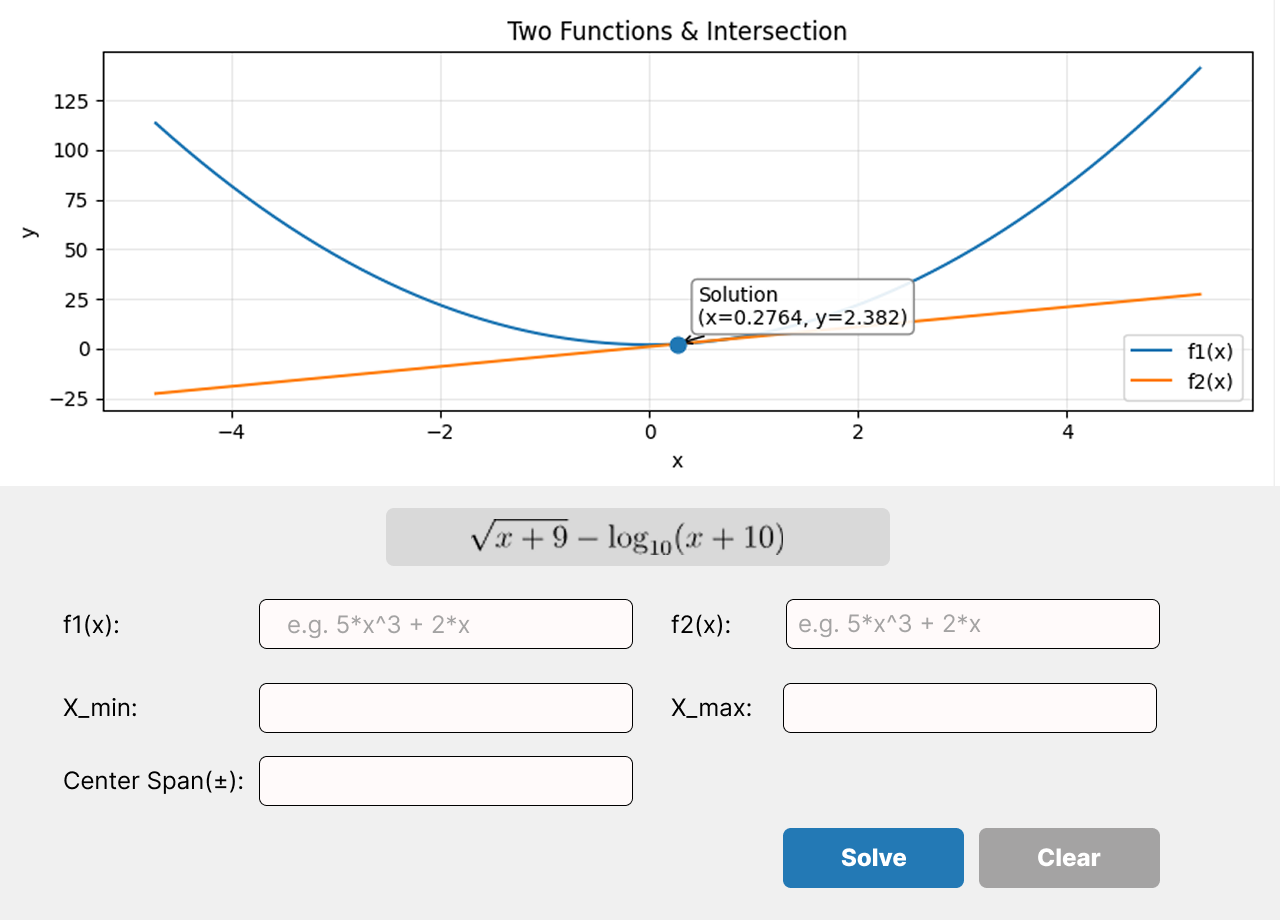
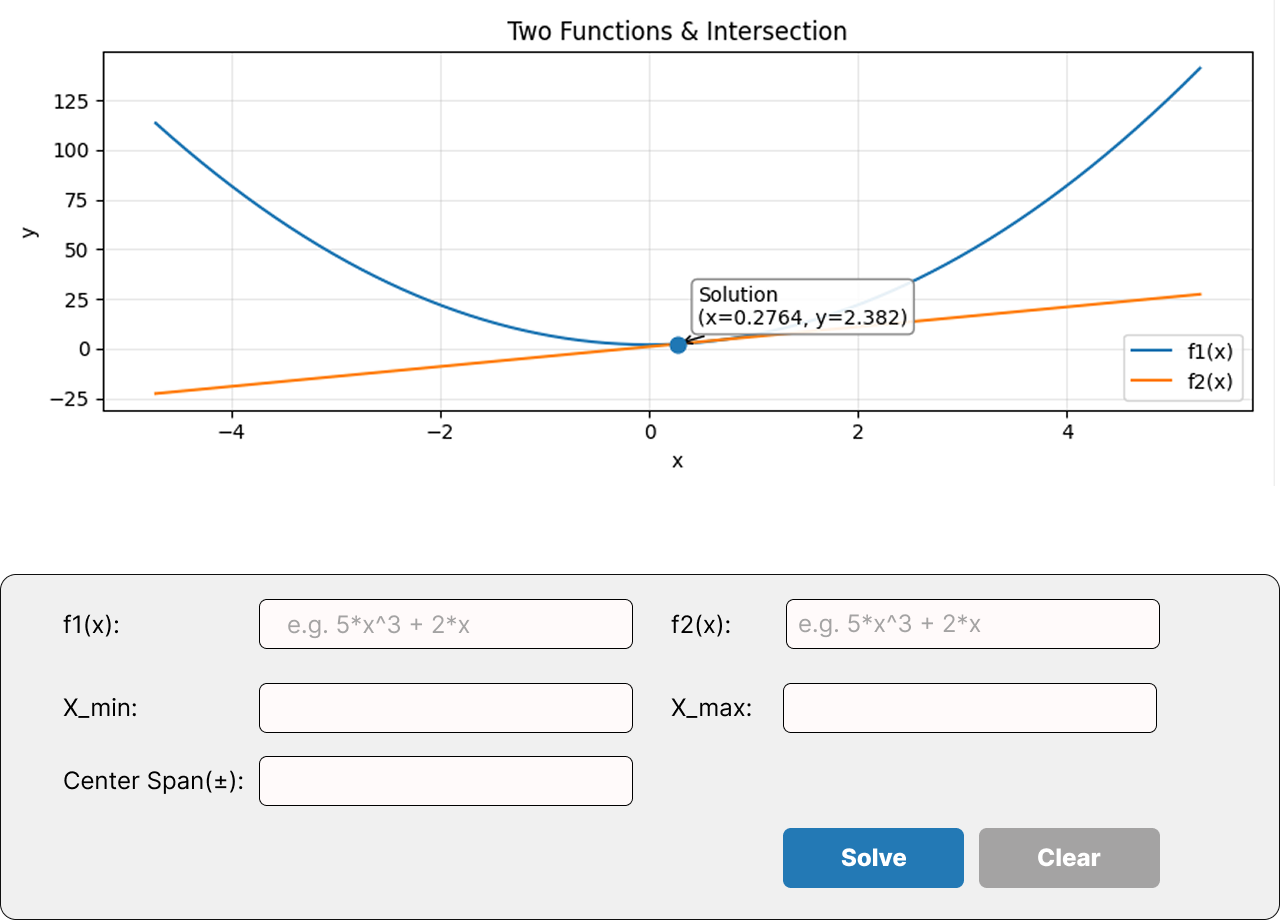
refactor input widget layout and update ReadMe with application features and snapshots

Changed region(s): [[0.2812, 0.5478, 0.7188, 0.6391]]

diff --git a/src/widgets/input_widget.py b/src/widgets/input_widget.py
@@ -57,6 +57,7 @@ class InputPanelWidget(QWidget):
 
     def init_layout(self):
         grid = QGridLayout()
+        grid.setSpacing(10)
         grid.addWidget(self.f1_label, 0, 0)
         grid.addWidget(self.f1_input, 0, 1)
         grid.addWidget(self.f2_label, 0, 2)
@@ -81,9 +82,9 @@ class InputPanelWidget(QWidget):
             InputPanelWidget {
                 background-color: #F3F3F3;
                 color: #ffffff;
-                max-height: 150px;
+                max-height: 180px;
                 border-top: 1px solid #cccccc;
-                border-radius: 16px;
+                border-radius: 15px;
             }
             QLineEdit {
                 background-color: #ffffff;
@@ -92,6 +93,7 @@ class InputPanelWidget(QWidget):
                 height: 20px;
                 min-width: 100px;
                 padding: 4px;
+                font-size: 15px;
             }
             QDoubleSpinBox {
                 background-color: #ffffff;
@@ -100,6 +102,7 @@ class InputPanelWidget(QWidget):
                 height: 20px;
                 min-width: 100px;
                 padding: 4px;
+                font-size: 15px;
             }
             QAbstractSpinBox::up-button {
                 width: 0px; height: 0px;
@@ -109,13 +112,13 @@ class InputPanelWidget(QWidget):
             }
             QLabel {
                 font-weight: bold;
-                font-size: 14px;
+                font-size: 15px;
                 color: #0451A5;
             }
             QPushButton {
                 border-radius: 8px;
                 font-weight: bold;
-                font-size: 14px;
+                font-size: 15px;
                 width: 100px;
                 color: #ffffff;
                 padding: 6px 12px;
@@ -128,6 +131,13 @@ class InputPanelWidget(QWidget):
         self.clear_btn.setStyleSheet("background-color: #F44747;")
         self.clear_btn.setCursor(Qt.PointingHandCursor)
         self.clear_btn.setFixedHeight(30)
+
+        self.f1_input.setFixedHeight(30)
+        self.f2_input.setFixedHeight(30)
+        self.x_min.setFixedHeight(30)
+        self.x_max.setFixedHeight(30)
+        self.span.setFixedHeight(30)
+
 
     def connect_signals(self):
         pass

diff --git a/test/UI/app_test.py b/test/UI/app_test.py
@@ -1,4 +1,4 @@
-from PySide2 import QtWidgets, QtCore
+from PySide2 import QtWidgets
 from PySide2.QtGui import Qt
 
 from src.widgets.solver_ui import SolverUI

diff --git a/ReadMe.md b/ReadMe.md
@@ -1,1 +1,66 @@
 # FX Solver PySide2
+
+A simple FX solver application built with PySide2. This application allows users to input two mathematical expressions
+that are functions of x then solves for x where the two expressions are equal.
+
+It also includes a feature to plot the two functions on a graph for visual comparison.
+
+## Features
+
+- Input two mathematical expressions as functions of x.
+- Solve for x where the two expressions are equal.
+- Plot the two functions on a graph for visual comparison.
+- User-friendly interface with error handling for invalid inputs.
+- Reset functionality to clear inputs and outputs.
+
+## Requirements
+
+## Requirements
+
+## Requirements
+
+<img src="https://img.shields.io/badge/Python-3.6%20--%203.10-3776AB?style=for-the-badge&logo=python&logoColor=white" />
+<br>
+<img src="https://img.shields.io/badge/PySide2-Qt%20for%20Python-41CD52?style=for-the-badge&logo=qt&logoColor=white" />
+<br>
+<img src="https://img.shields.io/badge/Matplotlib-Visualization-11557c?style=for-the-badge&logo=plotly&logoColor=white" />
+<br>
+<img src="https://img.shields.io/badge/NumPy-Array%20Computing-013243?style=for-the-badge&logo=numpy&logoColor=white" />
+
+## Snapshots
+
+![Welcome Screen](images/snapshots/start.png)
+<div style="text-align: center; font-style: italic">
+    Welcome screen showing the main interface
+</div>
+
+![Test 1 Valid](images/snapshots/test1_valid.png)
+<div style="text-align: center; font-style: italic">
+    Valid input screen with two intersecting points
+</div>
+
+![Test 2 Valid](images/snapshots/test2_valid.png)
+<div style="text-align: center; font-style: italic">
+    Valid input screen with one intersecting point
+</div>
+
+![Test 3 Valid](images/snapshots/test3_valid.png)
+<div style="text-align: center; font-style: italic">
+    Valid input with undefined interval for solutions
+</div>
+
+![No Solution](images/snapshots/no_solution.png)
+<div style="text-align: center; font-style: italic">
+    Welcome screen showing the main interface
+</div>
+
+![Test 1 Invalid](images/snapshots/test1_invalid.png)
+<div style="text-align: center; font-style: italic">
+    Test invalid characters in input
+</div>
+
+![Test 2 Invalid](images/snapshots/test2_invalid.png)
+<div style="text-align: center; font-style: italic">
+    Test empty input
+</div>
+
